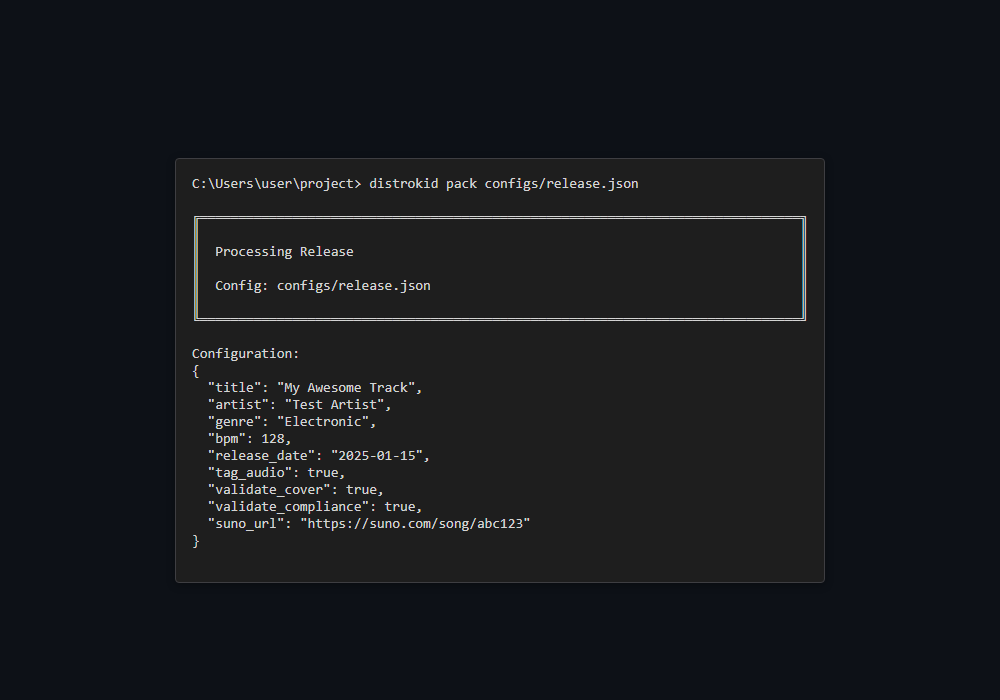
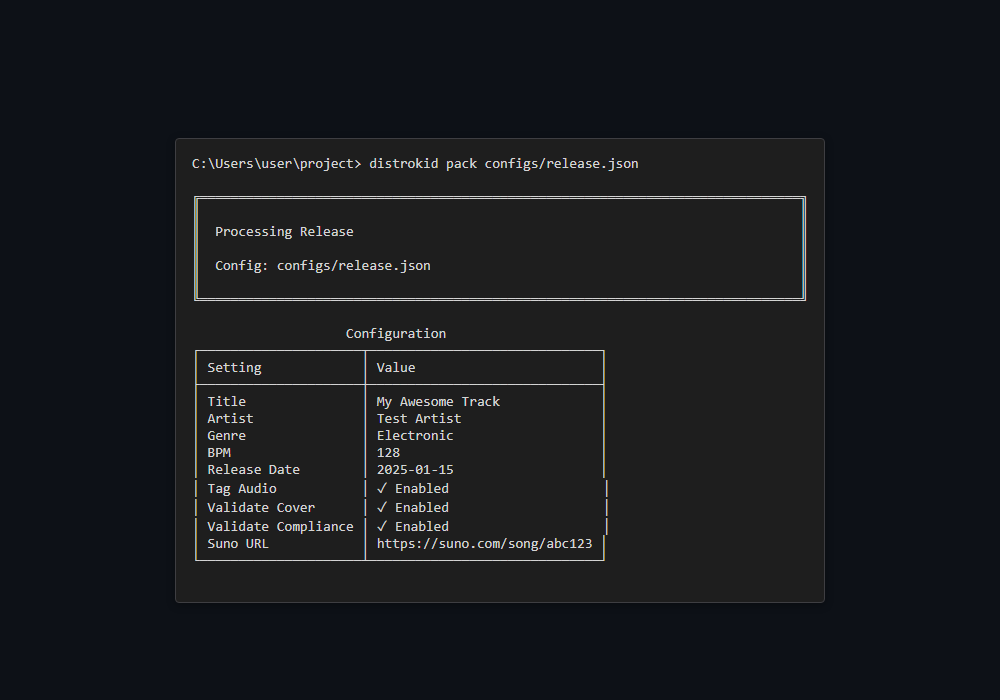
Make CLI highly professional - use Rich tables for configuration display
- Add print_config_table() function for professional config display
- Replace JSON output with Rich tables in pack command (start and dry-run)
- Replace JSON output with Rich tables in config show command
- Show configuration as formatted table with Setting/Value columns
- Use checkmarks and colors for enabled/disabled features
- Consistent professional appearance across all CLI commands

diff --git a/scripts/rich_utils.py b/scripts/rich_utils.py
@@ -142,6 +142,77 @@ def print_config_summary(config: dict):
     console.print(table)
 
 
+def print_config_table(config: dict, title: str = "Configuration"):
+    """Print configuration as a professional Rich table."""
+    table = Table(
+        title=f"[bold cyan]{title}[/bold cyan]",
+        box=box.ROUNDED,
+        show_header=True,
+        header_style="bold cyan",
+        border_style="cyan",
+        padding=(0, 1)
+    )
+    table.add_column("Setting", style="bold white", no_wrap=True)
+    table.add_column("Value", style="cyan")
+    
+    # Core fields
+    if "title" in config:
+        table.add_row("Title", f"[bold]{config['title']}[/bold]")
+    if "artist" in config:
+        table.add_row("Artist", f"[bold]{config['artist']}[/bold]")
+    if "genre" in config:
+        table.add_row("Genre", str(config["genre"]))
+    if "bpm" in config:
+        table.add_row("BPM", str(config["bpm"]))
+    if "release_date" in config:
+        table.add_row("Release Date", str(config["release_date"]))
+    if "release_dir" in config:
+        table.add_row("Release Directory", f"[dim]{config['release_dir']}[/dim]")
+    
+    # Boolean flags
+    if "tag_audio" in config:
+        status = "[bold green]✓ Enabled[/bold green]" if config["tag_audio"] else "[dim]Disabled[/dim]"
+        table.add_row("Tag Audio", status)
+    if "validate_cover" in config:
+        status = "[bold green]✓ Enabled[/bold green]" if config["validate_cover"] else "[dim]Disabled[/dim]"
+        table.add_row("Validate Cover", status)
+    if "validate_compliance" in config:
+        status = "[bold green]✓ Enabled[/bold green]" if config["validate_compliance"] else "[dim]Disabled[/dim]"
+        table.add_row("Validate Compliance", status)
+    if "organize_stems" in config:
+        status = "[bold green]✓ Enabled[/bold green]" if config["organize_stems"] else "[dim]Disabled[/dim]"
+        table.add_row("Organize Stems", status)
+    if "tag_stems" in config:
+        status = "[bold green]✓ Enabled[/bold green]" if config["tag_stems"] else "[dim]Disabled[/dim]"
+        table.add_row("Tag Stems", status)
+    
+    # URLs and paths
+    if "suno_url" in config and config["suno_url"]:
+        table.add_row("Suno URL", f"[dim]{config['suno_url']}[/dim]")
+    if "suno_metadata_file" in config and config["suno_metadata_file"]:
+        table.add_row("Suno Metadata File", f"[dim]{config['suno_metadata_file']}[/dim]")
+    if "source_audio_dir" in config and config["source_audio_dir"]:
+        table.add_row("Source Audio Dir", f"[dim]{config['source_audio_dir']}[/dim]")
+    if "source_stems_dir" in config and config["source_stems_dir"]:
+        table.add_row("Source Stems Dir", f"[dim]{config['source_stems_dir']}[/dim]")
+    if "cover_art_path" in config and config["cover_art_path"]:
+        table.add_row("Cover Art Path", f"[dim]{config['cover_art_path']}[/dim]")
+    
+    # Additional fields (display as-is for other keys)
+    for key, value in config.items():
+        if key not in ["title", "artist", "genre", "bpm", "release_date", "release_dir",
+                      "tag_audio", "validate_cover", "validate_compliance", "organize_stems", "tag_stems",
+                      "suno_url", "suno_metadata_file", "source_audio_dir", "source_stems_dir", "cover_art_path",
+                      "debug", "_comment", "_comments"]:
+            if isinstance(value, bool):
+                status = "[bold green]✓ Enabled[/bold green]" if value else "[dim]Disabled[/dim]"
+                table.add_row(key.replace("_", " ").title(), status)
+            elif value is not None and value != "":
+                table.add_row(key.replace("_", " ").title(), str(value))
+    
+    console.print(table)
+
+
 def print_file_list(files: list, title: str = "Files"):
     """Print a formatted list of files."""
     if not files:

diff --git a/scripts/commands/pack.py b/scripts/commands/pack.py
@@ -60,6 +60,9 @@ def pack(
         raise typer.Exit(1)
     
     try:
+        # Load config first (needed for both dry-run and normal execution)
+        config = load_config(str(config_path), validate=True)
+        
         if dry_run:
             validation_panel = Panel(
                 f"[bold bright_cyan]🔍 Validating Configuration[/bold bright_cyan]\n\n"
@@ -72,7 +75,10 @@ def pack(
             console.print(validation_panel)
             console.print()
             
-            config = load_config(str(config_path), validate=True)
+            # Display configuration in Rich table format
+            from rich_utils import print_config_table
+            print_config_table(config, "Configuration")
+            console.print()
             
             success_panel = Panel(
                 f"[bold green on black]✓[/bold green on black] [bold green]Configuration is Valid[/bold green]\n\n"
@@ -97,8 +103,12 @@ def pack(
         console.print(loading_panel)
         console.print()
         
+        # Display configuration in Rich table format
+        from rich_utils import print_config_table
+        print_config_table(config, "Configuration")
+        console.print()
+        
         # Enable debug mode in config if requested
-        config = load_config(str(config_path), validate=True)
         if debug:
             config["debug"] = True
         

diff --git a/scripts/commands/config.py b/scripts/commands/config.py
@@ -55,6 +55,7 @@ def show(
             config_data = json.load(f)
         
         from rich.panel import Panel
+        from rich_utils import print_config_table
         console.print()
         title_panel = Panel(
             f"[bold bright_cyan]⚙  Configuration File[/bold bright_cyan]\n[dim white]{config_path}[/dim white]",
@@ -64,7 +65,9 @@ def show(
         )
         console.print(title_panel)
         console.print()
-        console.print(JSON.from_data(config_data))
+        
+        # Display configuration in Rich table format instead of JSON
+        print_config_table(config_data, "Configuration")
         console.print()
         
     except UnicodeDecodeError as e:
